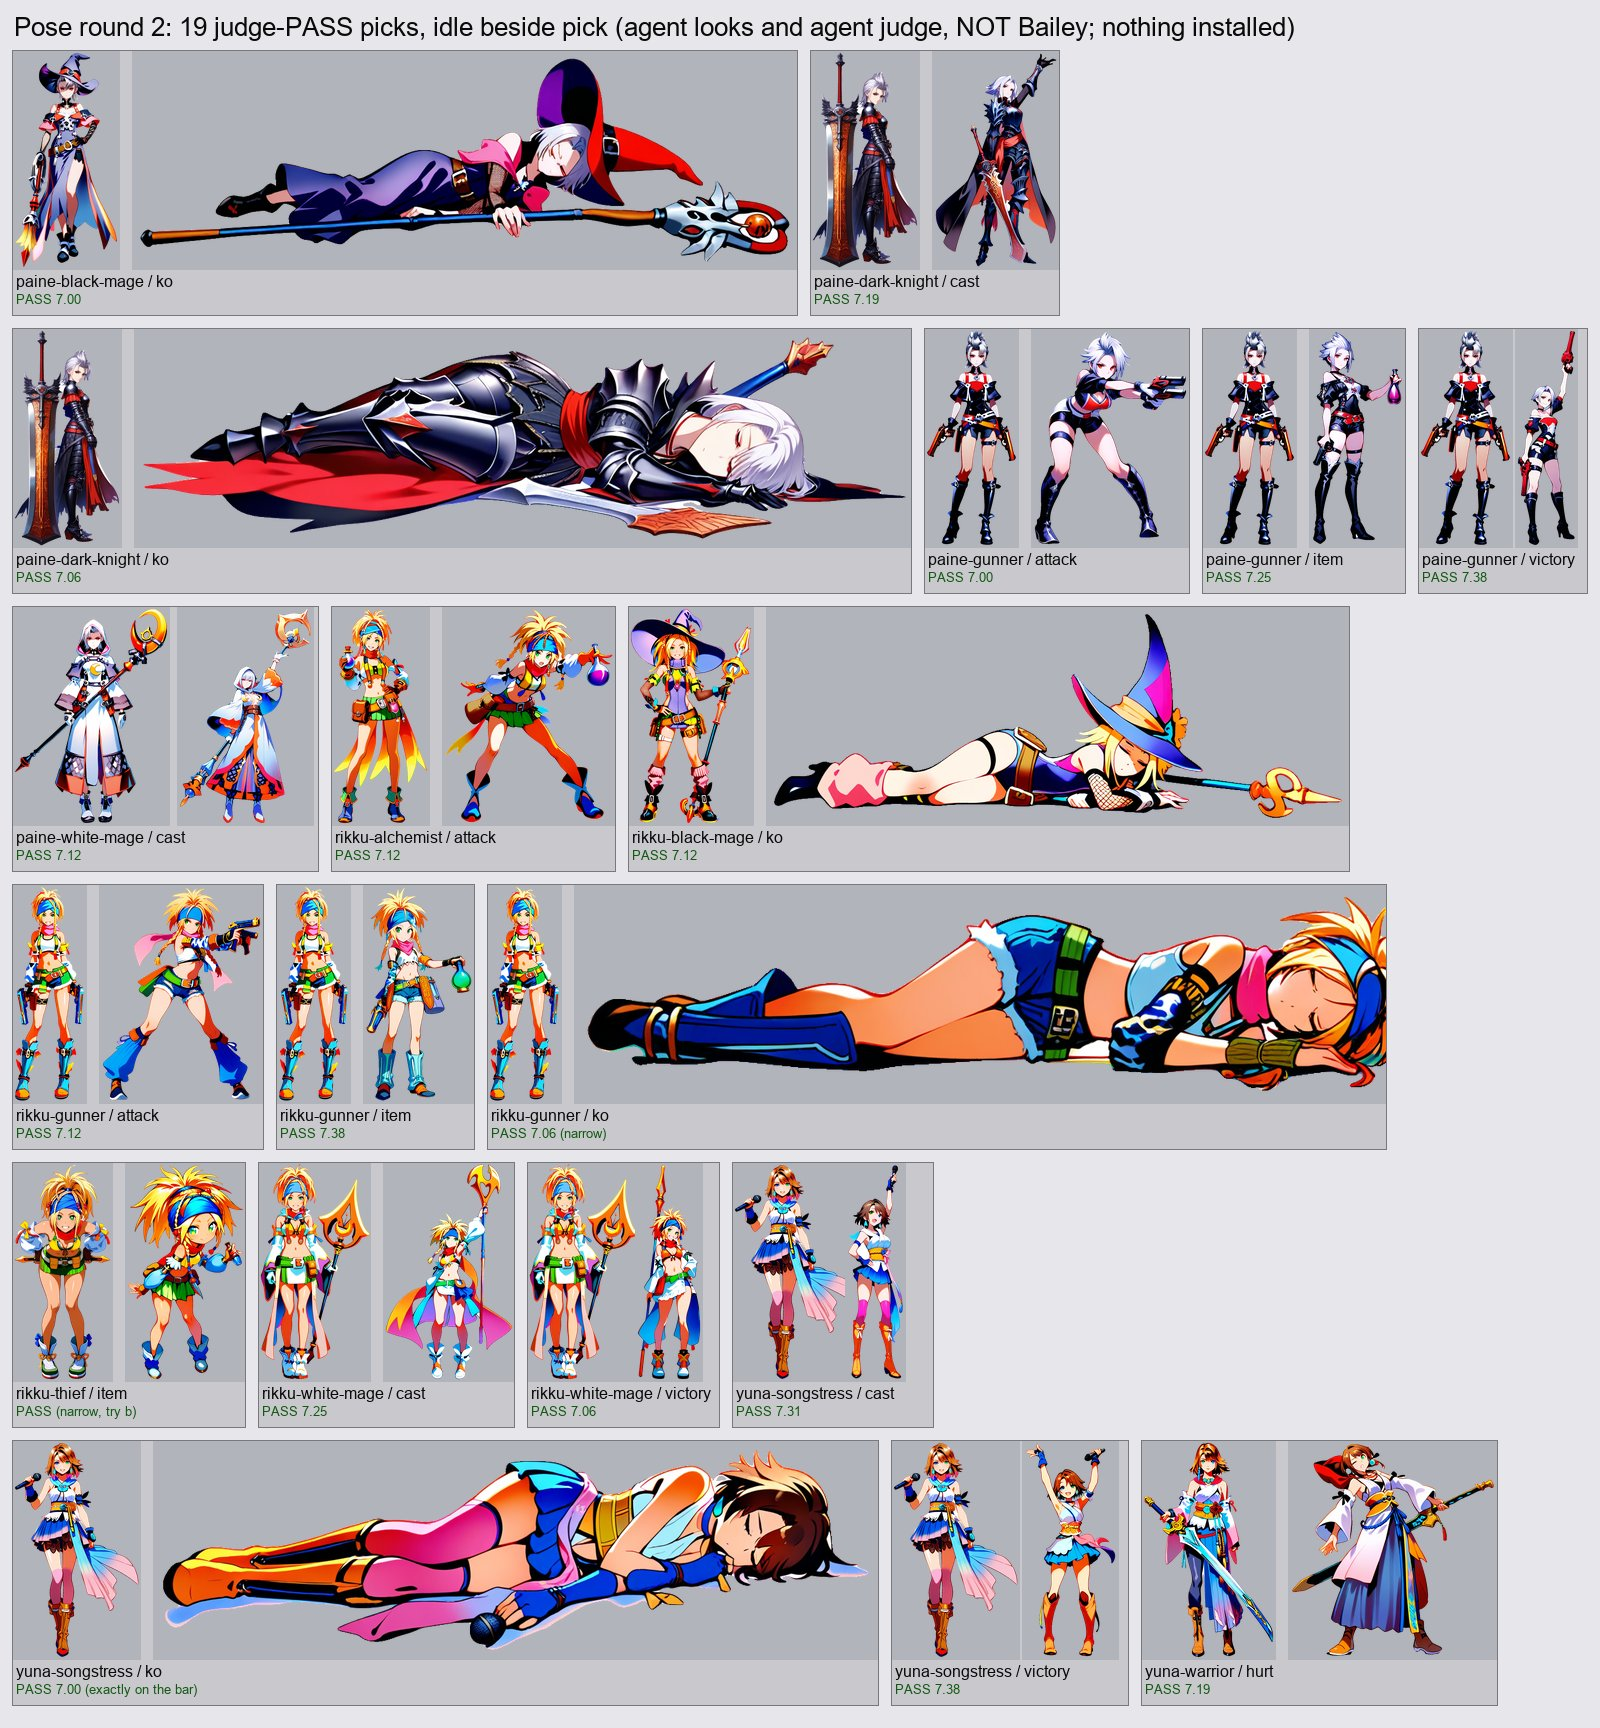
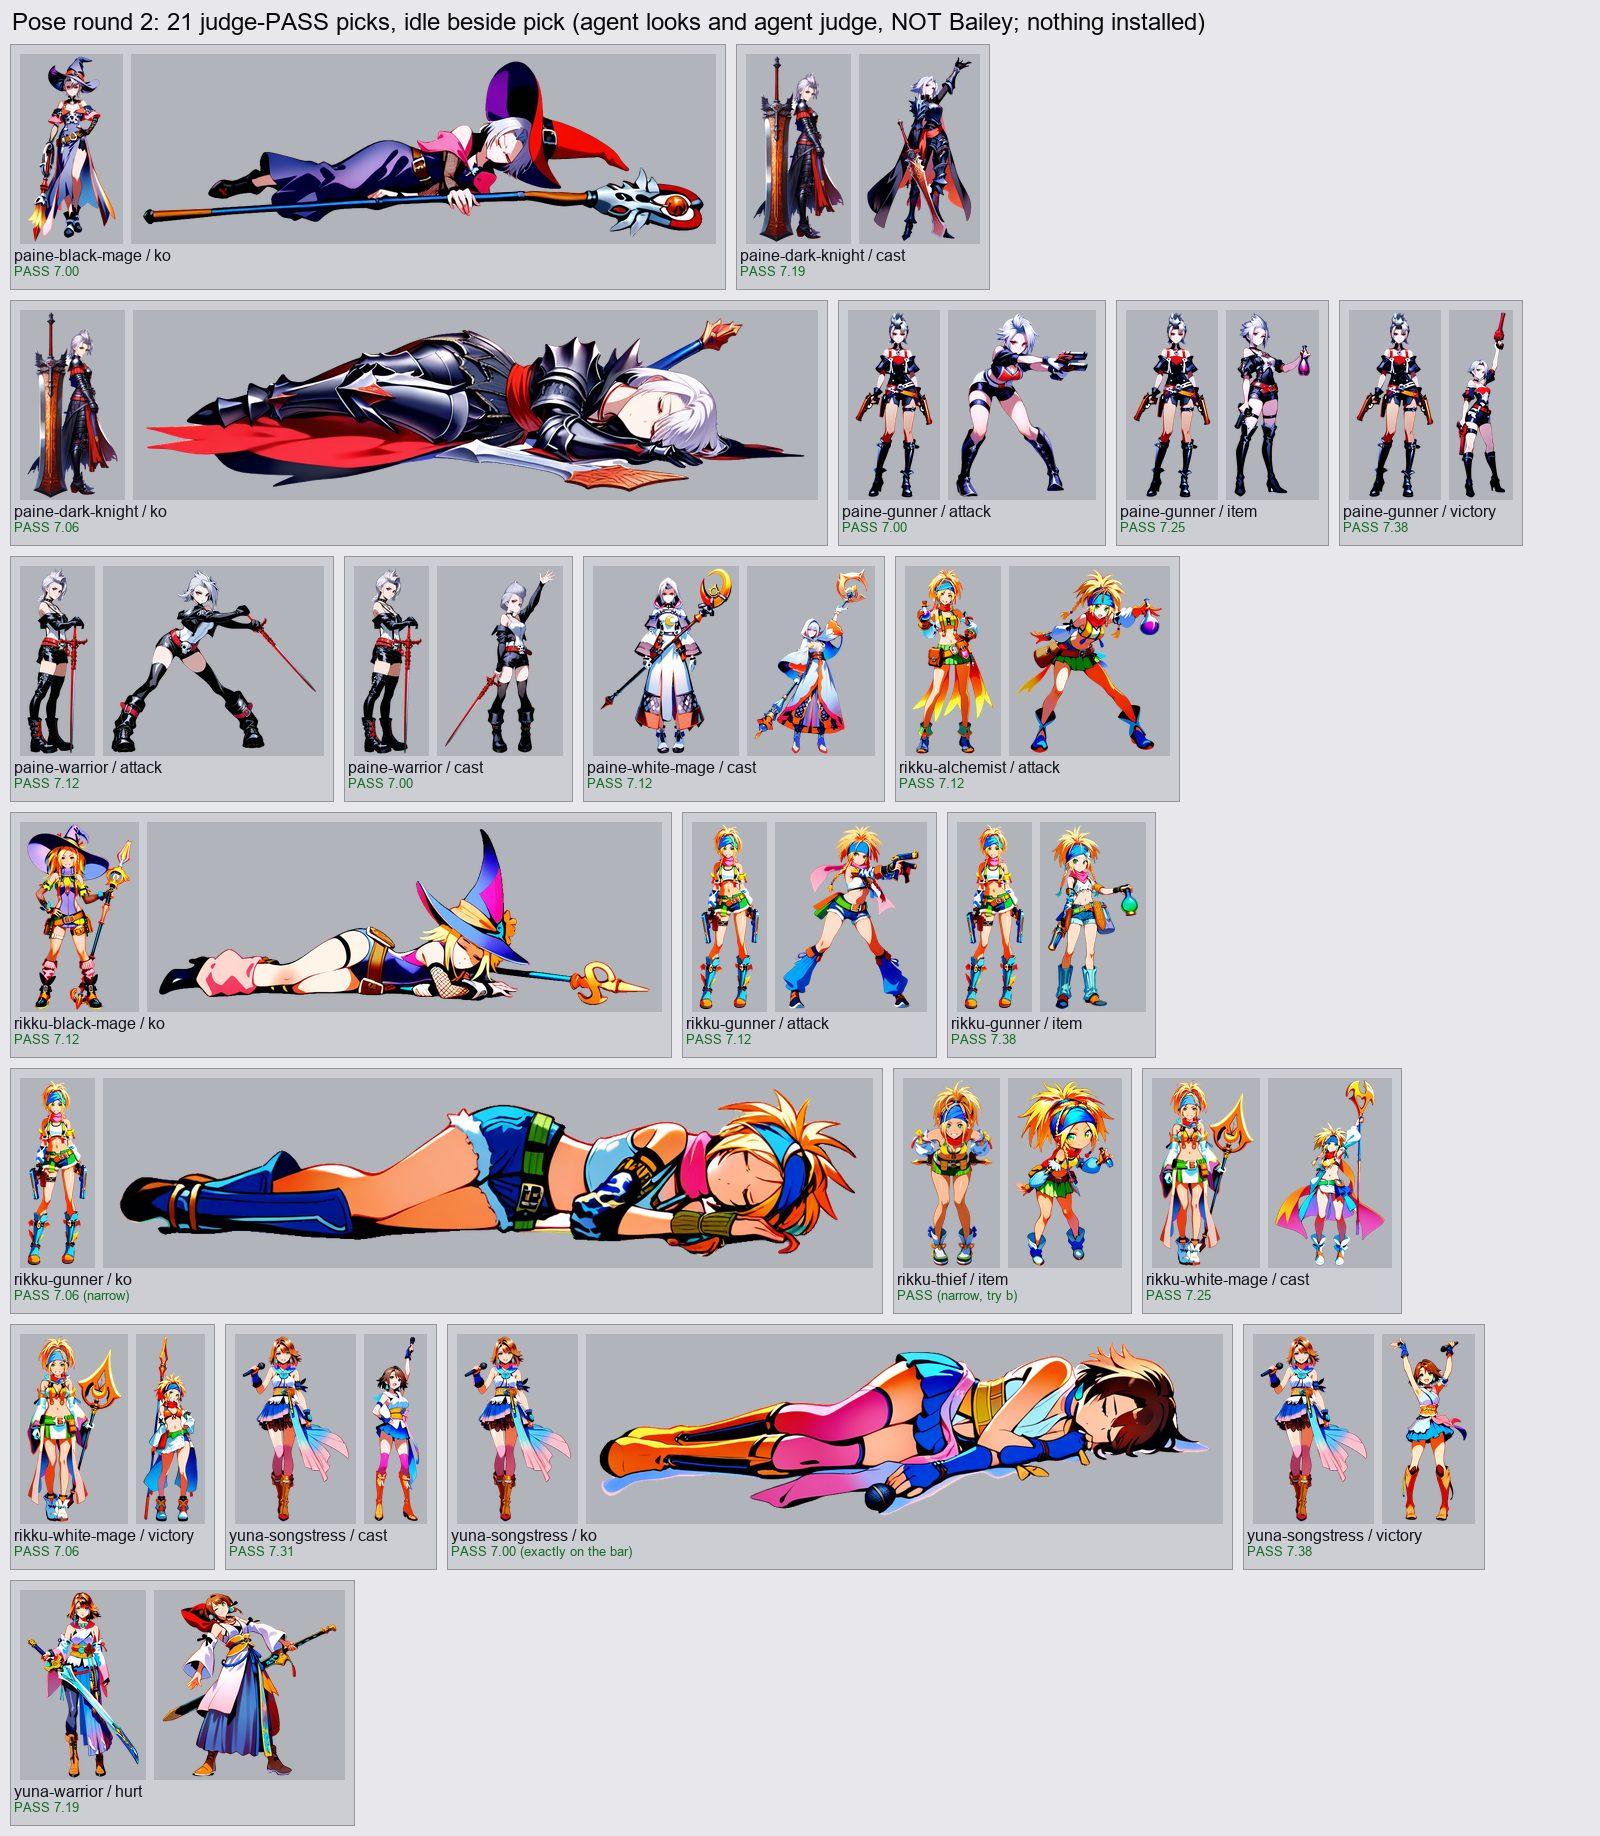
Paine Warrior method run judged: attack and cast pass, item, hurt and ko fail on the body (FFX-2 only)
An independent agent judge (not Bailey; made none of these frames) scored the five method-run picks from a3584d1d: sword-free bodies with the idle's own sword composited in. The round 1 rubric was applied at 1:1 and at battle size against the installed idle, with a separate check of the composite seam (edges, scale, lighting, grip).

- attack cand-7: PASS 7.12. Worst are hands, costume and seams (6.5): a flat red rod between the fists, and the sword about 0.75 of the idle's.
- cast cand-8: PASS 7.00, exactly on the bar. Worst is costume (6): bare hands, sheer thighhighs.
- item cand-4: FAIL 6.81. Worst is identity (5.5): a pointed elf ear, a bob instead of the crest.
- hurt cand-9: FAIL 5.75. Worst is hands (5): a malformed pale block that only touches the pommel.
- ko cand-4: FAIL 6.56. Worst is costume (5.5): many red studded straps, block heels, the face hidden.

The method fixed the floating and doubling sword on all five slots. The remaining failures are in the body. The entries go into judge2.json under pass "method"; item's pass-2 entry is kept, and its method score sits under a "method" key. The README results rows, counts and the Paine Warrior sword question are updated. make-sheets2.py gains a "ready" mode, and round2-ready.jpg is regenerated with 21 picks. Nothing was installed to public/art. verify-approved reads 0 mismatched, 0 missing.

diff --git a/docs/concepts/art5/round2/make-sheets2.py b/docs/concepts/art5/round2/make-sheets2.py
@@ -212,8 +212,69 @@ def results():
         print('wrote', f'sheet2-{gid}.jpg', sheet.size, 'any_pick=', any_pick)
 
 
+def ready():
+    """round2-ready.jpg: every judge-PASS pick beside its idle in one overview, both at one
+    height, labelled slot and score. A slot counts when its judge2.json verdict starts with
+    PASS, or when its "method" sub-entry does (the Paine Warrior method run); a cut-out path
+    ("cutout") is used over "candidate" when present. Agent judge, NOT Bailey; nothing installed.
+        python make-sheets2.py ready
+    """
+    judge2 = json.loads((HERE / 'judge2.json').read_text(encoding='utf8'))
+    picks = []
+    for key in sorted(judge2['slots']):
+        e = judge2['slots'][key]
+        m = e.get('method') or {}
+        if str(m.get('verdict', '')).startswith('PASS'):
+            e = m
+        if not str(e.get('verdict', '')).startswith('PASS'):
+            continue
+        picks.append((key, pathlib.Path(e.get('cutout') or e['candidate']), e['verdict']))
+    f13, f16, f22 = font(13), font(16), font(24)
+    H, W, PAD = 190, 1600, 10
+    tiles = []
+    for key, png, verdict in picks:
+        gid = key.split('/')[0]
+        ims = []
+        for p in (ART / gid / 'idle.png', png):
+            im = Image.open(p).convert('RGBA')
+            im = im.resize((max(1, int(im.width * H / im.height)), H), Image.LANCZOS)
+            t = Image.new('RGB', (im.width + 10, H), BG)
+            t.paste(im, (5, 0), im)
+            ims.append(t)
+        tw = sum(i.width for i in ims) + 8 + 2 * PAD
+        tile = Image.new('RGB', (tw, H + 2 * PAD + 36), (205, 206, 212))
+        x = PAD
+        for i in ims:
+            tile.paste(i, (x, PAD)); x += i.width + 8
+        dr = ImageDraw.Draw(tile)
+        dr.rectangle([0, 0, tw - 1, tile.height - 1], outline=(150, 150, 158))
+        dr.text((PAD - 6, H + PAD + 2), key.replace('/', ' / '), fill=(20, 20, 30), font=f16)
+        dr.text((PAD - 6, H + PAD + 20), verdict, fill=(20, 110, 40), font=f13)
+        tiles.append(tile)
+    rows, cur, cw = [], [], 0
+    for t in tiles:
+        if cur and cw + t.width + PAD > W - PAD:
+            rows.append(cur); cur, cw = [], 0
+        cur.append(t); cw += t.width + PAD
+    if cur:
+        rows.append(cur)
+    th = tiles[0].height if tiles else 0
+    sheet = Image.new('RGB', (W, 44 + len(rows) * (th + PAD)), (232, 232, 236))
+    ImageDraw.Draw(sheet).text((12, 8), f'Pose round 2: {len(picks)} judge-PASS picks, idle beside pick (agent looks and agent judge, NOT Bailey; nothing installed)', fill=(10, 10, 10), font=f22)
+    y = 44
+    for r in rows:
+        x = PAD
+        for t in r:
+            sheet.paste(t, (x, y)); x += t.width + PAD
+        y += th + PAD
+    sheet.save(HERE / 'round2-ready.jpg', quality=82)
+    print('wrote round2-ready.jpg', sheet.size, len(picks), 'picks')
+
+
 if __name__ == '__main__':
     if len(sys.argv) > 1 and sys.argv[1] == 'results':
         results()
+    elif len(sys.argv) > 1 and sys.argv[1] == 'ready':
+        ready()
     else:
         main()

diff --git a/docs/concepts/art5/round2/README.md b/docs/concepts/art5/round2/README.md
@@ -5,13 +5,16 @@ committed changes `docs/target/approved-hashes.json` or `judge-locked-hashes.jso
 This section is generated from `looks.json` (try a and try b, the "agent look" pass)
 and `judge2.json` (the agent judge's scored pass against the round 1 rubric, mean >= 7.0
 to pass); see `make-sheets2.py results` for the per-girl `sheet2-<id>.jpg` picture sheets,
-and `round2-ready.jpg` for every judge-PASS pick beside its idle in one overview image.
+and `round2-ready.jpg` for every judge-PASS pick beside its idle in one overview image
+(`make-sheets2.py ready`). The Paine Warrior method run's own sheet is `sheet3-paine-warrior.jpg`;
+`sheet2-paine-warrior.jpg` still shows the pre-method picks.
 
 Counts across the 55 worklist slots (this pass judged every slot the makers
-passed): **19 judge PASS**, **21 judge FAIL** (the maker's own pick scored
-below the 7.0 bar), **5 maker FAIL** (no candidate the maker judged worth a judge
+passed): **21 judge PASS**, **23 judge FAIL** (the maker's own pick scored
+below the 7.0 bar), **1 maker FAIL** (no candidate the maker judged worth a judge
 pass), **10 STOPPED** (failed try b, rule 15: no third try), **0 not
-looked at yet**.
+looked at yet**. The five Paine Warrior slots count by their method-run judge (pass
+"method" in `judge2.json`, 2026-09-26): attack and cast PASS; item, hurt and ko FAIL.
 
 ## Ready for Bailey's pick (judge PASS at 7.0 or above)
 
@@ -23,6 +26,8 @@ hundredths of the bar and should be looked at again before it is trusted.
 |---|---|---|
 | paine-dark-knight/cast | cand-2.png | PASS 7.19 |
 | paine-dark-knight/ko | cand-1.png | PASS 7.06 |
+| paine-warrior/attack | method cand-7-comp.png | PASS 7.12 |
+| paine-warrior/cast | method cand-8-comp.png | PASS 7.00 (exactly on the bar) |
 | rikku-alchemist/attack | cand-4.png | PASS 7.12 |
 | rikku-thief/item | cand-8.png | PASS (narrow, try b) |
 | paine-black-mage/ko | cand-1.png | PASS 7.00 |
@@ -52,9 +57,15 @@ hundredths of the bar and should be looked at again before it is trusted.
 - **The Paine Warrior sword that floats or doubles.** Every one of Paine Warrior's 5 round 2
   slots (attack, cast, item, hurt, ko) failed with the same class of fault: the sword floats
   unheld beside or behind her, forks into two blades, or is held in the wrong (cast) hand,
-  across both try a and, where it ran, try b. No round 2 method fix has landed on this weapon
-  for this dressphere; it may need a different prompt approach (an inpaint pass on the sword
-  alone, or a different reference pose) rather than another word-tweak try.
+  across both try a and, where it ran, try b. **Method run (2026-09-26, METHOD-CHECK.md, commit
+  a3584d1d):** the maker rendered each body with no sword and pasted the idle's own sword into
+  her hand. This fixed the floating and doubling on all five slots: each pick has exactly one
+  sword. The judge passed attack (7.12) and cast (7.00). Item, hurt and ko still fail on the
+  body (an elf ear, a malformed hand, the wrong kit), not on the sword.
+  - **Sword size.** The pasted sword comes out at about 0.72 to 0.75 of the idle's sword on
+    attack, cast and hurt once the head-match scale is applied, so it reads thin at battle size.
+  - **Grip.** Where the hand should close around the grip, the composite shows a flat,
+    unshaded red rod.
 
 ## Per-girl, for Bailey
 
@@ -66,7 +77,7 @@ hundredths of the bar and should be looked at again before it is trusted.
 ### Paine
 
 - **paine-dark-knight** (3 slots): 2 judge PASS, 1 judge FAIL, 0 maker FAIL, 0 STOPPED.
-- **paine-warrior** (5 slots): 0 judge PASS, 1 judge FAIL, 4 maker FAIL, 0 STOPPED.
+- **paine-warrior** (5 slots): 2 judge PASS, 3 judge FAIL, 0 maker FAIL, 0 STOPPED (method run, 2026-09-26).
 - **paine-black-mage** (2 slots): 1 judge PASS, 0 judge FAIL, 1 maker FAIL, 0 STOPPED.
 - **paine-gunner** (6 slots): 3 judge PASS, 2 judge FAIL, 0 maker FAIL, 1 STOPPED.
 - **paine-white-mage** (6 slots): 1 judge PASS, 3 judge FAIL, 0 maker FAIL, 2 STOPPED.
@@ -91,11 +102,11 @@ hundredths of the bar and should be looked at again before it is trusted.
 | paine-dark-knight/victory | judge FAIL | cand-1.png | FAIL 6.88 | Hand on hip, smirk and heavy spiked plate: a victory stance. Worst: costume (5.5). The idle's greatsword is a short blade held low and nearly hidden, so at battle size she carries… |
 | rikku-alchemist/attack | judge PASS | cand-4.png | PASS 7.12 | Flask thrust toward the enemy reads at game size. Worst: costume (only one flame strip left, at the hip, idle has them down both legs; boots blue with black flaps not green cuffs;… |
 | rikku-alchemist/ko | judge FAIL | cand-3.png | FAIL 6.81: game read | Cheek pillowed on her forearm reads as asleep rather than fallen; flame strips spread under her as an orange-yellow mat, flask a pink blob at the chest. |
-| paine-warrior/attack | maker FAIL |  |  | FAIL: No candidate both reads as an attack and carries the named ornate red longsword; two of four touch the edges. |
-| paine-warrior/cast | maker FAIL |  |  | FAIL: The named fix (a single sword, not floating) fails: the sword floats (c1), multiplies (c2) or is raised in the cast hand (c3, c4). |
-| paine-warrior/item | judge FAIL | cand-4.png | FAIL 6.75 | The flask is held out at chest height, and she wears the white corset, black off-shoulder jacket, red skull belt and black shorts. Worst: identity (6), then seams and game read (6… |
-| paine-warrior/hurt | maker FAIL |  |  | FAIL: Three of four are edge rejects with extra blades; c1 has a floating sword plus a sheath and a second hilt (the rubric's extra-weapon fault). |
-| paine-warrior/ko | maker FAIL |  |  | FAIL: All four are guard rejects on the edges (the named fault is not fixed); the sword grows past the canvas every time. |
+| paine-warrior/attack | judge PASS (method) | method cand-7-comp.png | PASS 7.12 | Two-handed thrust at the enemy, one sword (the idle's own). Worst: hands, costume and seams (6.5): a flat unshaded red rod between the fists, the sword about 0.75 of the idle's at game size, one red strap per boot. Head-match scale 1.21, lunge stature 0.85. |
+| paine-warrior/cast | judge PASS (method) | method cand-8-comp.png | PASS 7.00 (exactly on the bar) | Open palm raised, sword trailing from the low fist; the crest is the closest to the idle's. Worst: costume (6): bare hands (no black elbow gloves), sheer thighhighs. Seam: the grip butts into a bare fist, and the sword is about 0.72 of the idle's. Scale 1.09, stature 0.83. |
+| paine-warrior/item | judge FAIL (method) | method cand-4-comp.png | FAIL 6.81 | The method fixed the giant unheld blade: the sword rests point-down in her fist at the right size (0.94). Worst: identity (5.5): a pointed elf ear shows even at battle size, a bob instead of the crest, and blue-violet scaled hip pouches. The pass-2 entry for the earlier cand-4 (6.75) is kept in judge2.json. |
+| paine-warrior/hurt | judge FAIL (method) | method cand-9-comp.png | FAIL 5.75 | Worst: hands (5): the sword hand is a malformed pale block and the pommel only touches it. Lavender hair, a red stroke down the neck, a hip pouch and glyphs on the boots. Planted upright, the sword reads as a cane with a wince, not a hit. |
+| paine-warrior/ko | judge FAIL (method) | method cand-4-comp.png | FAIL 6.56 | On her back with the sword dropped by her open hand: one sword, reads as down. Worst: costume (5.5): many red studded straps, a white zigzag fringe for the corset, block heels. The face is hidden (only the underside of the jaw shows), and the plank-straight body reads as levitating. |
 | rikku-dark-knight/ko | judge FAIL | cand-8 | FAIL (all try-a candidates guard-rejected for tou… | Judge pass covered the try-a set only; try-a had no candidate to score because every frame touched an edge. See the looker's try-b PASS on cand-8 in looks.json (not separately re-… |
 | rikku-thief/attack | STOPPED |  |  | FAIL (stops, rule 15): the head fix took (c7 is inside the gate) and the facing is fixed, but the only candidate with both loses the bandana, the puffy sleeves and the green skirt… |
 | rikku-thief/cast | STOPPED |  |  | FAIL (stops, rule 15): the head factor now works (c5-c7 inside the gate), but the other named fixes do not land: no candidate has the short curved second dagger, the puffy sleeves… |
